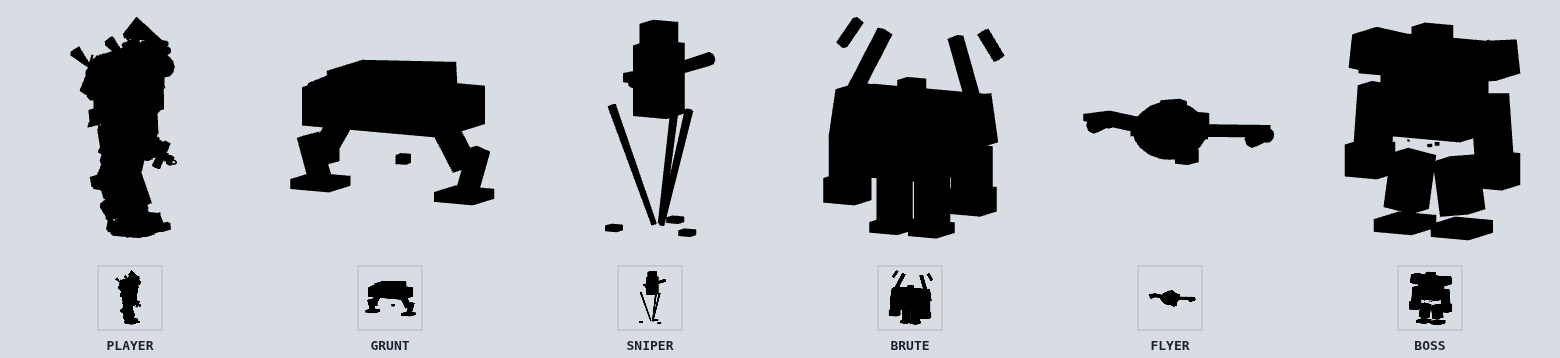
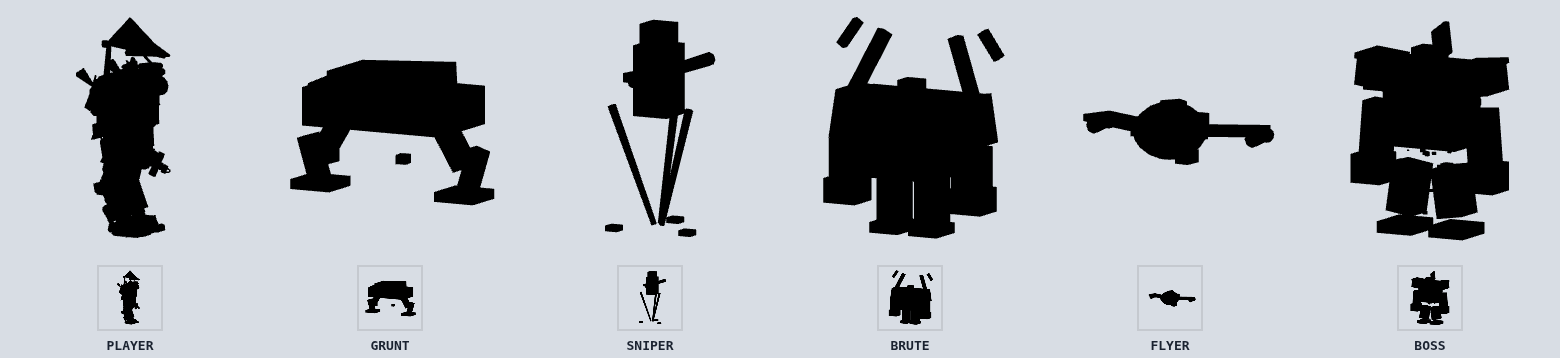
Make shoulder asymmetry structural; greeble the boss
The blade fin that was supposed to break the mech's outline was 0.72 units
on a four-unit machine, so it vanished below roughly 100px and the two
shoulders read as mirrored — the one thing the silhouette axis punishes
hardest. The right shoulder now carries a raked blade stack that clears
the shoulder line, and the left a vertical comms mast, so the two sides
differ in OUTLINE rather than only in the greebles bolted to them.
Verified against the 64px contact sheet, not against a lit combat frame.

The boss was a stack of bare slabs standing next to a heavily detailed
player mech, which made its size read as "scaled up" rather than as a
different class of machine. It gains flank ribs, chest louvres, hip and
knee actuators, shoulder cap plating, spine cabling and a dorsal fin that
breaks its top edge, plus two scatter passes of panel greebles.

All six units now read distinctly as black shapes at 64px.

Claude-Session: https://claude.ai/code/session_01PgCdSzRfjR8dyHghXgMKBV

diff --git a/src/combat/MechModel.js b/src/combat/MechModel.js
@@ -669,7 +669,27 @@ function buildPauldronL(rng) {
   G.piston(p, [-0.16, -0.06, 0.06], [0, 0, 0.4], 0.34, 0.03);
   G.scatter(p, rng, { c: [0, 0.42, 0.2], axis: 'y', sign: 1, u: 0.4, v: 0.34 }, 3);
   G.scatter(p, rng, { c: [0.03, 0.06, 0.58], axis: 'z', sign: 1, u: 0.5, v: 0.5 }, 4);
-  return p.merge();
+  
+  // Comms mast: the left side's counterpart to the right's blade stack. The two
+  // shoulders now differ in OUTLINE — one raked blade, one vertical spike — rather
+  // than only in the greebles bolted to them.
+  p.add(tube(0.055, 0.085, 1.15, 6), {
+    pos: [0.06, 0.82, 0.34],
+    rot: [0.1, 0, -0.13],
+    color: PAL.FRAME,
+    ...S_FRAME,
+    uvScale: 5,
+    flat: false,
+  });
+  p.add(chamferBox(0.16, 0.16, 0.1, 0.02), {
+    pos: [0.02, 1.36, 0.36],
+    color: PAL.ARMOR_DD,
+    ...S_FRAME,
+    uvScale: 4,
+  });
+  G.sensor(p, [0.02, 1.36, 0.42], 'z', 1, 0.045, PAL.EMI_AMBER);
+
+return p.merge();
 }
 
 function buildPauldronR(rng) {
@@ -690,15 +710,28 @@ function buildPauldronR(rng) {
     ...S_ARMOR_MATTE,
     uvScale: 2.4,
   });
-  // blade fin sweeping up and back — the asymmetry that breaks the outline
-  p.add(wedge(0.72, 0.5, 0.1, 0.03), {
-    pos: [-0.3, 0.62, -0.26],
-    rot: [0.14, 0, 2.5],
+  // Blade fin sweeping up and back — the asymmetry that breaks the outline.
+  //
+  // Sized to be STRUCTURAL, not decorative. At 0.72 units on a four-unit mech this
+  // vanished below about 100px and the two shoulders read as mirrored, which is the
+  // single thing the silhouette axis punishes hardest. It now clears the shoulder
+  // line by enough to change the outline at 64px.
+  p.add(wedge(1.24, 0.82, 0.13, 0.04), {
+    pos: [-0.4, 0.86, -0.3],
+    rot: [0.16, 0, 2.42],
     color: PAL.ARMOR,
     ...S_ARMOR,
     uvScale: 2,
   });
-  G.strip(p, [-0.3, 0.62, -0.32], 'x', 0.5, 0.03, PAL.EMI, 2.6, [0.14, 0, 2.5]);
+  // A second, shorter blade behind it, so the fin reads as a stack rather than a slab.
+  p.add(wedge(0.95, 0.62, 0.1, 0.03), {
+    pos: [-0.2, 0.74, -0.44],
+    rot: [0.2, 0, 2.62],
+    color: PAL.ARMOR_D,
+    ...S_ARMOR_MATTE,
+    uvScale: 2.2,
+  });
+  G.strip(p, [-0.4, 0.86, -0.38], 'x', 0.86, 0.04, PAL.EMI, 2.8, [0.16, 0, 2.42]);
   // gatling drum on the outer face
   p.add(tube(0.19, 0.19, 0.22, 12), {
     pos: [0.02, 0.02, -0.52],

diff --git a/src/ai/EnemyModels.js b/src/ai/EnemyModels.js
@@ -219,7 +219,30 @@ function buildBoss() {
   put(parts, new THREE.BoxGeometry(1.5, 0.9, 1.3), 0, 9.4, 0.2, ARMOR_D);
   put(parts, new THREE.BoxGeometry(1.1, 0.18, 0.14), 0, 9.45, 0.88, EYE, { emissive: 2.2 });
 
-  greeble(parts, rnd, 0, 6.0, 0.6, 5.2, 26, FRAME);
+  // Panel breaks and hardware. Without these the boss is a stack of bare slabs
+  // sitting next to a heavily greebled player mech, and the size difference reads as
+  // "scaled up" rather than as a different class of machine.
+  for (const side of [-1, 1]) {
+    // Armour ribs down the flanks
+    for (let i = 0; i < 4; i++) {
+      put(parts, new THREE.BoxGeometry(0.22, 0.34, 2.5), side * 2.12, 5.5 + i * 0.72, 0, ARMOR_D);
+    }
+    // Intake louvres on the chest block
+    for (let i = 0; i < 3; i++) {
+      put(parts, new THREE.BoxGeometry(1.5, 0.16, 0.18), side * 0.95, 7.5 + i * 0.34, 1.36, FRAME);
+    }
+    // Hip and knee actuators
+    put(parts, new THREE.CylinderGeometry(0.2, 0.2, 1.5, 8), side * 1.95, 2.9, 0.3, FRAME, { rz: side * 0.12 });
+    put(parts, new THREE.BoxGeometry(0.5, 0.5, 0.5), side * 1.3, 3.7, 0.75, ARMOR_D);
+    // Shoulder cap plating
+    put(parts, new THREE.BoxGeometry(1.9, 0.3, 2.5), side * 2.9, 9.15, 0, ARMOR_D, { rz: side * 0.1 });
+  }
+  // Spine cabling and a dorsal fin so the top edge is not a flat line
+  put(parts, new THREE.BoxGeometry(0.5, 2.6, 0.4), 0, 7.6, -1.5, FRAME);
+  put(parts, new THREE.BoxGeometry(0.28, 1.7, 1.5), 0, 9.9, -1.1, ARMOR, { rx: 0.22 });
+
+  greeble(parts, rnd, 0, 6.0, 0.6, 5.2, 34, FRAME);
+  greeble(parts, rnd, 0, 3.2, 0.9, 4.4, 18, ARMOR_D);
   return mergeGeometries(parts, false);
 }
 
